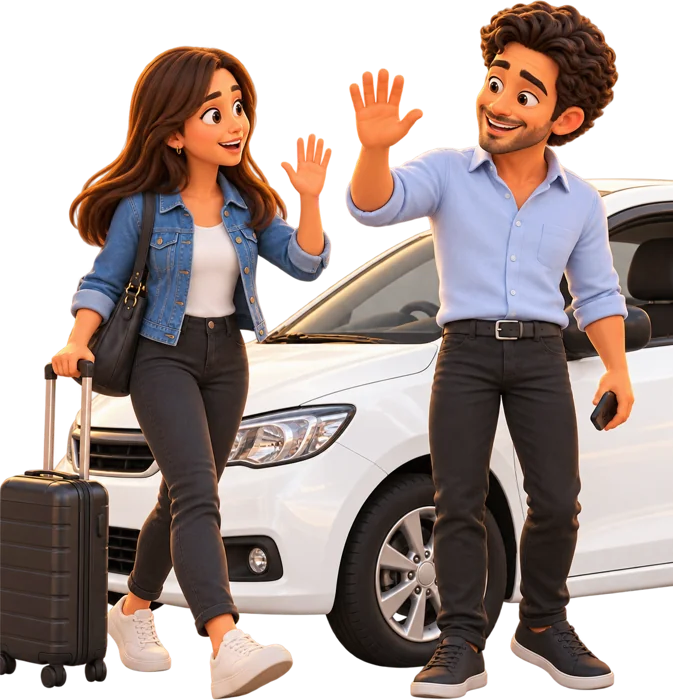
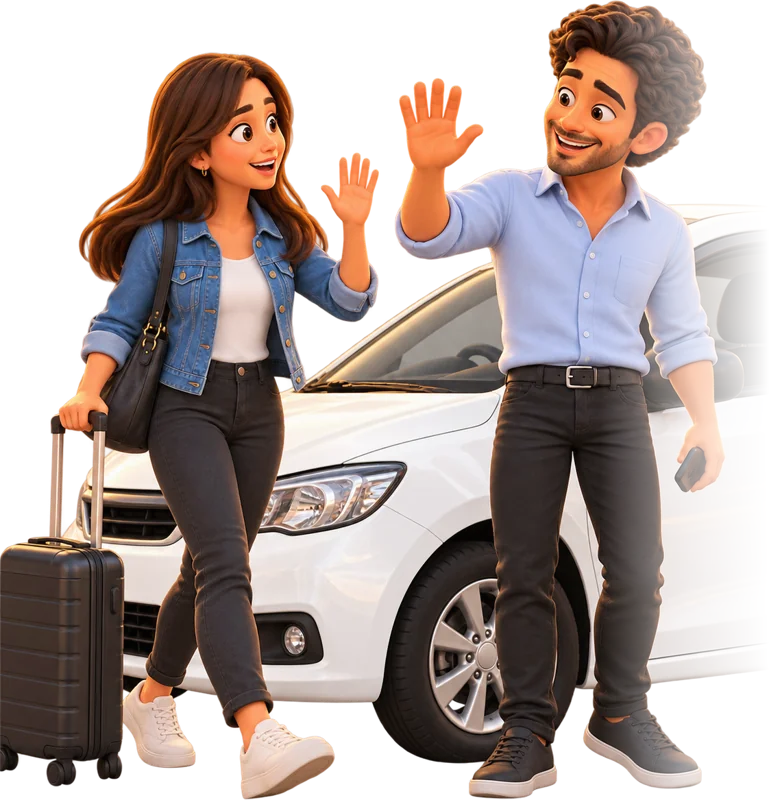
Landing: globos de cada paso con icono, color y lugar propio; personajes mas grandes y enteros

Changed region(s): [[0.7801, 0.0, 1.0, 0.99]]

diff --git a/landing-independiente/assets/site.css b/landing-independiente/assets/site.css
@@ -516,9 +516,32 @@ body.mnav-open{overflow:hidden}
 .hero-shots{position:relative;z-index:1;margin-right:22%;width:min(300px,66vw);display:grid;filter:drop-shadow(0 30px 50px rgba(0,0,0,.55))}
 .hero-shots img{grid-area:1/1;width:100%;height:auto;opacity:0;animation:seq 9s infinite}
 .hero-shots img:nth-child(2){animation-delay:3s}.hero-shots img:nth-child(3){animation-delay:6s}
-.hero-pj{position:absolute;z-index:3;right:-12%;bottom:-6px;width:min(210px,36%);display:grid;pointer-events:none}
-.hero-pj img{grid-area:1/1;width:100%;height:auto;align-self:end;opacity:0;animation:seq 9s infinite;filter:drop-shadow(0 20px 26px rgba(0,0,0,.5))}
-.hero-pj img:nth-child(2){animation-delay:3s}.hero-pj img:nth-child(3){animation-delay:6s}
-@media (max-width:900px){.hero-shots{margin-right:0}.hero-pj{right:-4px;width:min(150px,34vw)}}
-@media (max-width:600px){.hero-shots{width:min(240px,62vw)}.hero-pj{right:-8px;width:min(105px,28vw);bottom:-4px}}
-@media (prefers-reduced-motion:reduce){.hero-shots img,.hero-pj img{animation:none}.hero-shots img:nth-child(2),.hero-pj img:nth-child(2){opacity:1}}
+/* Personaje y globo de cada paso: cambian de lugar, entran con rebote */
+@keyframes hs{0%{opacity:0;transform:translateY(14px) scale(.92)}4%{opacity:1;transform:translateY(-4px) scale(1.03)}7%,30%{opacity:1;transform:none}35%,100%{opacity:0;transform:translateY(-8px) scale(.98)}}
+.hs-pj,.hs-cap{position:absolute;opacity:0;animation:hs 9s infinite;pointer-events:none}
+.hs-2{animation-delay:3s}.hs-3{animation-delay:6s}
+.hs-pj{z-index:3;height:auto;filter:drop-shadow(0 22px 28px rgba(0,0,0,.55))}
+.hs-pj.hs-1{width:min(250px,40%);right:-4%;bottom:-14px}
+.hs-pj.hs-2{width:min(300px,48%);right:-18%;top:30%}
+.hs-pj.hs-3{width:min(290px,46%);right:-12%;bottom:-14px}
+.hs-cap{z-index:4;display:flex;align-items:center;gap:12px;padding:12px 18px 12px 12px;border-radius:20px;background:#F4F6F1;color:#06150D;box-shadow:0 24px 50px rgba(0,0,0,.5);max-width:260px}
+.hs-cap small{display:block;font-size:11px;font-weight:700;letter-spacing:.04em;text-transform:uppercase;color:#1d7a52}
+.hs-cap b{display:block;font-size:17px;font-weight:800;line-height:1.15}
+.hs-cap span:not(.hs-ico){display:block;font-size:13px;color:#4c5650}
+.hs-ico{width:42px;height:42px;border-radius:14px;background:#3DCC8E;color:#06150D;display:grid;place-items:center;flex:0 0 auto}
+.hs-ico svg{width:22px;height:22px}
+.hs-cap.hs-hot{background:#3DCC8E}
+.hs-hot .hs-ico{background:#06150D;color:#3DCC8E}
+.hs-hot small{color:#06150D;opacity:.7}.hs-hot span:not(.hs-ico){color:#0E2A1C}
+.hs-cap.hs-1{left:-24%;top:34%}
+.hs-cap.hs-2{left:-18%;top:14%}
+.hs-cap.hs-3{right:-2%;top:6%}
+@media (max-width:900px){.hs-cap.hs-1{left:0}.hs-cap.hs-2{left:0}.hs-cap.hs-3{right:0}.hs-pj.hs-2{right:-6%}}
+@media (max-width:600px){
+  .hs-cap{max-width:200px;padding:9px 12px 9px 9px;gap:9px;border-radius:16px}
+  .hs-cap b{font-size:14px}.hs-cap span:not(.hs-ico){font-size:11px}.hs-cap small{font-size:9px}
+  .hs-ico{width:32px;height:32px;border-radius:10px}.hs-ico svg{width:17px;height:17px}
+  .hs-cap.hs-1{left:-4px;top:8%}.hs-cap.hs-2{left:-4px;top:12%;bottom:auto}.hs-cap.hs-3{right:-4px;top:4%}
+  .hs-pj.hs-1{width:min(130px,34vw);right:-10px}.hs-pj.hs-2{width:min(140px,38vw);right:-14px;top:16%}.hs-pj.hs-3{width:min(150px,40vw);right:-12px}
+}
+@media (prefers-reduced-motion:reduce){.hs-pj,.hs-cap{animation:none}.hs-pj.hs-2,.hs-cap.hs-2{opacity:1}}

diff --git a/landing-independiente/index.html b/landing-independiente/index.html
@@ -110,8 +110,12 @@
     </div>
     <div class="hero-phones" aria-hidden="true">
       <div class="hero-shots"><img src="assets/objetos/mk-01-web.webp" alt="" width="748" height="1402" fetchpriority="high"><img src="assets/objetos/mk-02-oferta.webp" alt="" width="748" height="1402"><img src="assets/objetos/mk-04-seguimiento.webp" alt="" width="748" height="1402"></div>
-      <div class="hero-pj"><img src="assets/objetos/pj-pasajera-pide.webp" alt="" width="633" height="700"><img src="assets/objetos/pj-chofer-pedido.webp" alt="" width="700" height="636"><img src="assets/objetos/pj-se-saludan.webp" alt="" width="673" height="700"></div>
-      <ol class="hero-cap"><li><b>1</b>Tu pasajera pide desde tu web</li><li><b>2</b>Te llega a la app y ponés tu precio</li><li><b>3</b>Acepta y te ve llegar en vivo</li></ol>
+      <img class="hs-pj hs-1" src="assets/objetos/pj-pasajera-pide.webp" alt="" width="633" height="700">
+      <img class="hs-pj hs-2" src="assets/objetos/pj-chofer-pedido.webp" alt="" width="800" height="800">
+      <img class="hs-pj hs-3" src="assets/objetos/pj-se-saludan.webp" alt="" width="769" height="800">
+      <div class="hs-cap hs-1"><span class="hs-ico"><svg viewBox="0 0 24 24" fill="none" stroke="currentColor" stroke-width="2.2" stroke-linecap="round" stroke-linejoin="round" aria-hidden="true"><path d="M10 13a5 5 0 0 0 7.5.5l3-3a5 5 0 0 0-7-7l-1.7 1.7"/><path d="M14 11a5 5 0 0 0-7.5-.5l-3 3a5 5 0 0 0 7 7l1.7-1.7"/></svg></span><div><small>Paso 1 · Tu pasajera</small><b>Te pide desde tu web</b><span>Sin descargar nada</span></div></div>
+      <div class="hs-cap hs-2 hs-hot"><span class="hs-ico"><svg viewBox="0 0 24 24" fill="none" stroke="currentColor" stroke-width="2.2" stroke-linecap="round" stroke-linejoin="round" aria-hidden="true"><path d="M6 8a6 6 0 0 1 12 0c0 7 3 9 3 9H3s3-2 3-9"/><path d="M10.3 21a1.94 1.94 0 0 0 3.4 0"/></svg></span><div><small>Paso 2 · Vos</small><b>¡Te llega el viaje!</b><span>Ponés tu precio y aceptás</span></div></div>
+      <div class="hs-cap hs-3"><span class="hs-ico"><svg viewBox="0 0 24 24" fill="none" stroke="currentColor" stroke-width="2.2" stroke-linecap="round" stroke-linejoin="round" aria-hidden="true"><path d="M12 21s-7-6.2-7-11.5A7 7 0 0 1 19 9.5C19 14.8 12 21 12 21z"/><circle cx="12" cy="9.5" r="2.5"/></svg></span><div><small>Paso 3 · Tu pasajera</small><b>Te ve llegar en vivo</b><span>Y el viaje es 100% tuyo</span></div></div>
     </div>
   </div>
 </section>
